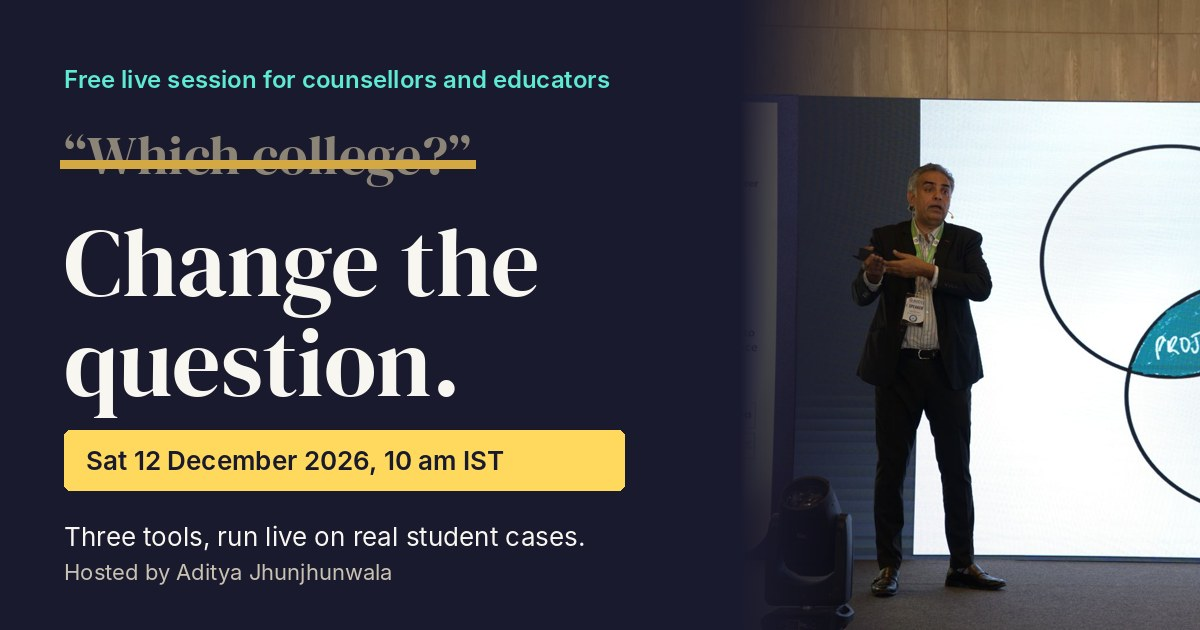
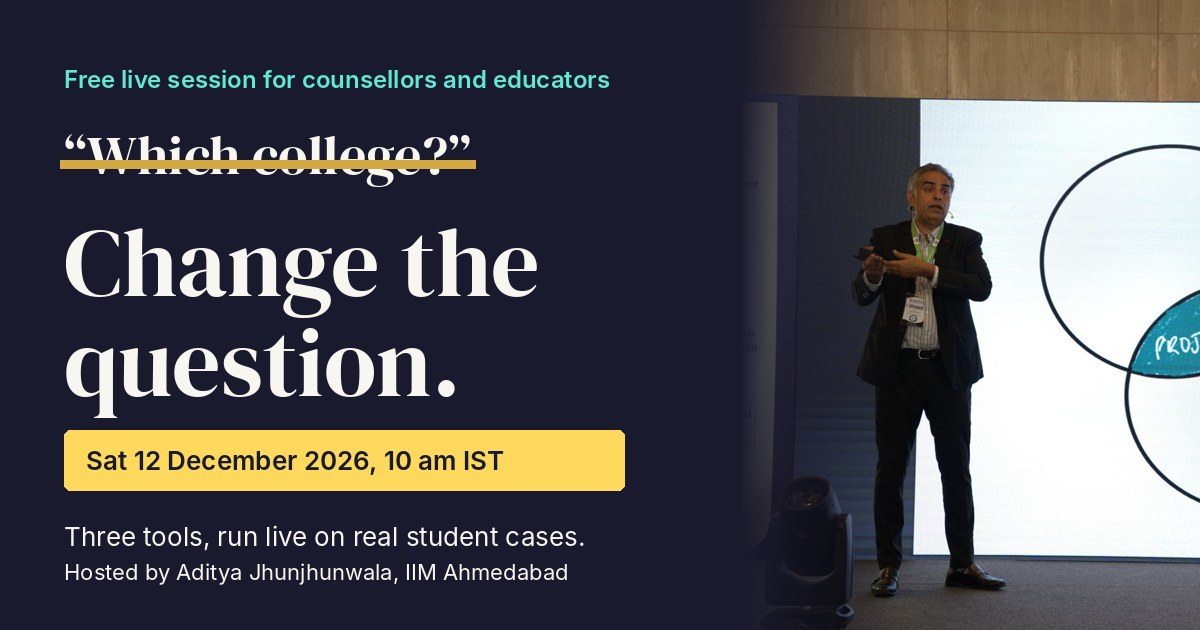
Webinar page: lead with IIM Ahmedabad and fuller host credentials
IIM-A first in the proof strip, hero host line, host chip beside the form button, meta and OG image;
host section adds MIT Pune, TEDx talk titles, Winning Habits, Spirit of Enterprise (Namita Thapar),
and leadership work with Red Hat, Secure Meters, Stahl, The Kalyani School. Event schema alumniOf.

Claude-Session: https://claude.ai/code/session_018KxVmULVFe8UPNG979SEa7

Changed region(s): [[0.0308, 0.2111, 0.4008, 0.3016], [0.0617, 0.8746, 0.4625, 0.9349]]

diff --git a/counsellors/webinar/index.html b/counsellors/webinar/index.html
@@ -4,7 +4,7 @@
 <meta charset="UTF-8">
 <meta name="viewport" content="width=device-width, initial-scale=1">
 <title>Change the question: a free working session for counsellors and educators, 12 Dec 2026</title>
-<meta name="description" content="Three tools for the next time a family asks which college, run live on real student cases by Aditya Jhunjhunwala. Free, online, Saturday 12 December 2026, 10:00 to 11:30 am IST. Every registrant gets the full nine-tool toolkit.">
+<meta name="description" content="Three tools for the next time a family asks which college, run live on real student cases by Aditya Jhunjhunwala, IIM Ahmedabad alumnus and two-time TEDx speaker. Free, online, Saturday 12 December 2026, 10:00 to 11:30 am IST. Every registrant gets the full nine-tool toolkit.">
 <link rel="canonical" href="https://www.adityajhunjhunwala.com/counsellors/webinar/">
 <meta property="og:type" content="website">
 <meta property="og:url" content="https://www.adityajhunjhunwala.com/counsellors/webinar/">
@@ -29,7 +29,7 @@
  "isAccessibleForFree":true,
  "offers":{"@type":"Offer","price":"0","priceCurrency":"INR","availability":"https://schema.org/InStock","url":"https://www.adityajhunjhunwala.com/counsellors/webinar/","validFrom":"2026-11-24T00:00:00+05:30"},
  "organizer":{"@type":"Person","name":"Aditya Jhunjhunwala","url":"https://www.adityajhunjhunwala.com/"},
- "performer":{"@type":"Person","name":"Aditya Jhunjhunwala"}}
+ "performer":{"@type":"Person","name":"Aditya Jhunjhunwala","alumniOf":[{"@type":"CollegeOrUniversity","name":"Indian Institute of Management Ahmedabad"},{"@type":"CollegeOrUniversity","name":"Maharashtra Institute of Technology, Pune"}]}}
 </script>
 <style>
 :root{
@@ -118,7 +118,7 @@ details.more[open] summary{margin-bottom:12px}
 
 /* proof strip */
 .proof{border-top:1px solid var(--line);border-bottom:1px solid var(--line);background:var(--paper)}
-.proof ul{list-style:none;margin:0 auto;padding:18px 28px;max-width:var(--wrap);display:flex;flex-wrap:wrap;justify-content:space-between;gap:10px 28px;font-size:16px;font-weight:600;color:var(--ink2)}
+.proof ul{list-style:none;margin:0 auto;padding:18px 28px;max-width:var(--wrap);display:flex;flex-wrap:wrap;justify-content:space-between;gap:10px 20px;font-size:16px;font-weight:600;color:var(--ink2)}
 .proof li b{font-family:var(--serif);font-weight:400;font-size:20px;color:var(--navy);margin-right:6px}
 
 /* room photo */
@@ -212,6 +212,15 @@ details.more[open] summary{margin-bottom:12px}
 .creds{list-style:none;margin:24px 0 0;padding:0;display:grid;grid-template-columns:1fr 1fr;gap:0;border-top:1.5px solid var(--navy)}
 .creds li{padding:14px 12px 14px 0;border-bottom:1px solid var(--line);font-size:16px;line-height:1.45}
 .creds li b{display:block}
+.worked{margin-top:26px}
+.worked p{font-size:16px;margin:0 0 8px}
+.worked ul{list-style:none;margin:0;padding:0;display:flex;flex-wrap:wrap;gap:6px 28px}
+.worked li{font-family:var(--serif);font-size:24px;line-height:1.2}
+.proof li.lead b{font-size:22px}
+.host-chip{display:flex;gap:12px;align-items:center;margin:16px 0 0;padding-top:14px;border-top:1px solid rgba(248,246,240,.16)}
+.host-chip img{width:44px;height:44px;border-radius:50%;object-fit:cover;border:2px solid var(--goldb);flex:0 0 auto}
+.host-chip p{margin:0;font-size:16px;line-height:1.45;color:var(--cream)}
+.host-chip b{color:var(--cream)}
 
 /* toolkit */
 .kit{padding:96px 0}
@@ -267,6 +276,8 @@ footer .wrap{display:flex;justify-content:space-between;gap:16px;flex-wrap:wrap}
   body{font-size:16px}
   .wrap{padding:0 20px}
   .top-r .when{display:none}
+  .proof ul{display:grid;grid-template-columns:1fr 1fr;gap:12px 16px}
+  .proof li.lead{grid-column:1/-1}
   .hero .host-line{display:none}
   .hero{padding:40px 0 56px}
   .qa{grid-template-columns:1fr}
@@ -321,7 +332,7 @@ footer .wrap{display:flex;justify-content:space-between;gap:16px;flex-wrap:wrap}
       </dl>
       <div class="host-line">
         <img src="../adi.jpg" alt="Aditya Jhunjhunwala" width="64" height="64">
-        <p><b>Hosted by Aditya Jhunjhunwala.</b> Twelve years working with young people and their families. Keynote speaker at the All India Career Counsellors Conference 2026.</p>
+        <p><b>Hosted by Aditya Jhunjhunwala, IIM Ahmedabad.</b> Twelve years working with young people and their families. Two TEDx talks, and the keynote at the All India Career Counsellors Conference 2026.</p>
       </div>
     </div>
 
@@ -352,6 +363,7 @@ footer .wrap{display:flex;justify-content:space-between;gap:16px;flex-wrap:wrap}
         <div class="hp" aria-hidden="true"><label for="wwebsite">Leave this empty</label><input id="wwebsite" name="website" tabindex="-1" autocomplete="off"></div>
         <label class="check"><input type="checkbox" id="wsession"> <span>I'd also like a free session for my students or parents (in person in Pune or Mumbai, online elsewhere)</span></label>
         <button class="btn" type="submit">Save my seat</button>
+        <div class="host-chip"><img src="../adi.jpg" alt="" width="44" height="44"><p>With <b>Aditya Jhunjhunwala</b>, IIM Ahmedabad alumnus, two-time TEDx speaker and AICCC 2026 keynote speaker.</p></div>
         <p class="fine">Your details go to me and to my team at Let's Enterprise, who help run these sessions. We use them only to send the joining link, the recording and the toolkit, and to reply if you ask for a session. Never shared beyond that.</p>
       </form>
 
@@ -371,10 +383,11 @@ footer .wrap{display:flex;justify-content:space-between;gap:16px;flex-wrap:wrap}
 
 <div class="proof">
   <ul>
-    <li><b>12</b>years with young people and families</li>
-    <li><b>1,000+</b>young people mentored</li>
+    <li class="lead"><b>IIM Ahmedabad</b>alumnus</li>
+    <li><b>12</b>years with young people</li>
+    <li><b>1,000+</b>mentored</li>
     <li><b>2</b>TEDx talks</li>
-    <li><b>200</b>counsellors at the AICCC 2026 keynote</li>
+    <li><b>200</b>counsellors, AICCC keynote</li>
   </ul>
 </div>
 
@@ -518,16 +531,19 @@ footer .wrap{display:flex;justify-content:space-between;gap:16px;flex-wrap:wrap}
       <p class="label">Your host</p>
       <h2>Aditya Jhunjhunwala</h2>
       <blockquote>&ldquo;The job of a good counsellor is not to give answers. It is to ask the right questions.&rdquo;<cite>From the AICCC 2026 keynote</cite></blockquote>
-      <p>For twelve years I have worked with young people and their families on one question: what actually helps someone find direction, and get chosen. It started with five unpaid years running a weekly programme for 17 to 21 year olds, and became Let's Enterprise, India's first Working BBA, which I founded.</p>
+      <p>I studied mechanical engineering at MIT Pune and management at IIM Ahmedabad, and spent the years after in business. For the last twelve I have worked with young people and their families on one question: what actually helps someone find direction, and get chosen. It started with five unpaid years running a weekly programme for 17 to 21 year olds, and became Let's Enterprise, India's first Working BBA, which I founded.</p>
       <p>The tools in this session are the ones that kept working across those years. Every number in them is sourced, so you can use them with families with confidence.</p>
       <ul class="creds">
-        <li><b>Keynote, AICCC 2026</b>All India Career Counsellors Conference</li>
-        <li><b>Two TEDx talks</b>Pune and Goa</li>
-        <li><b>Author</b><i>Restless to Remarkable</i>, for parents and teenagers</li>
-        <li><b>IIM Ahmedabad</b>and a mechanical engineer by training</li>
+        <li><b>IIM Ahmedabad</b>PGDBM, 2002</li>
+        <li><b>MIT Pune</b>B.E. Mechanical Engineering, 1998</li>
+        <li><b>Keynote, AICCC 2026</b>To about 200 career counsellors</li>
+        <li><b>Two TEDx talks</b>Pune: a college of lifelong learning. Goa: why everyone should build a body of work.</li>
+        <li><b>Author</b><i>Restless to Remarkable</i>; co-author, <i>Winning Habits</i></li>
+        <li><b>Host, Spirit of Enterprise</b>Conversations with founders, including Namita Thapar</li>
         <li><b>1,000+ young people</b>mentored one to one</li>
         <li><b>150+ weekly letters</b>to founders and parents</li>
       </ul>
+      <div class="worked"><p>Leadership work with teams at</p><ul><li>Red Hat</li><li>Secure Meters</li><li>Stahl</li><li>The Kalyani School</li></ul></div>
     </div>
   </div>
 </section>
